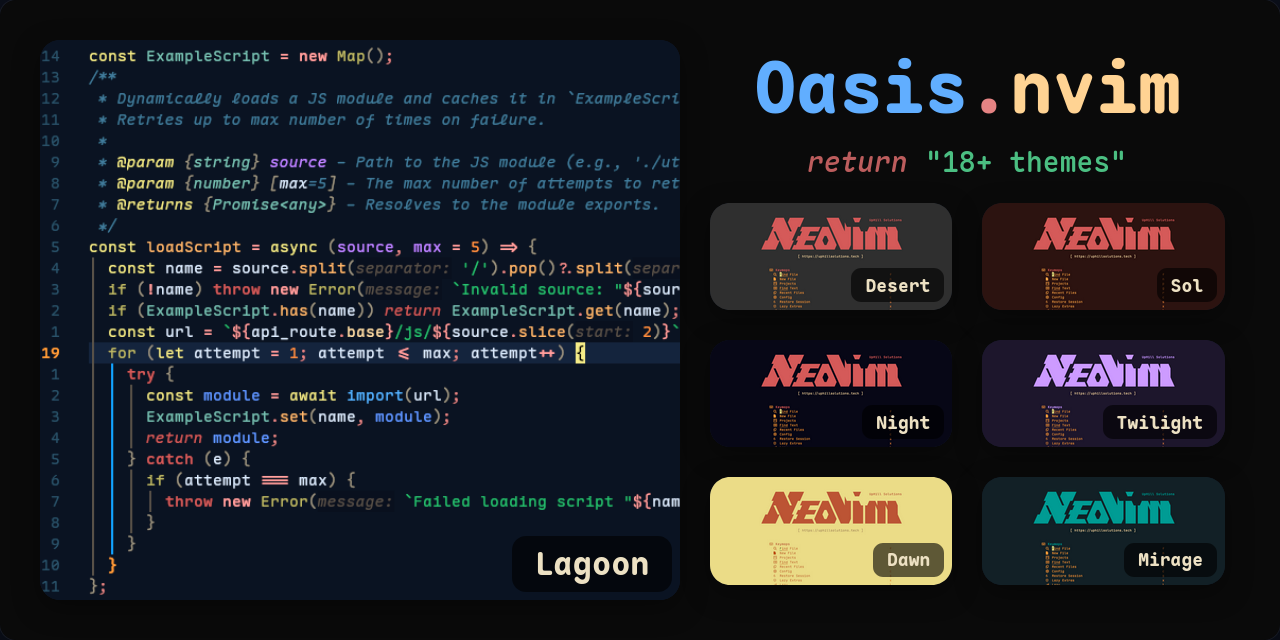
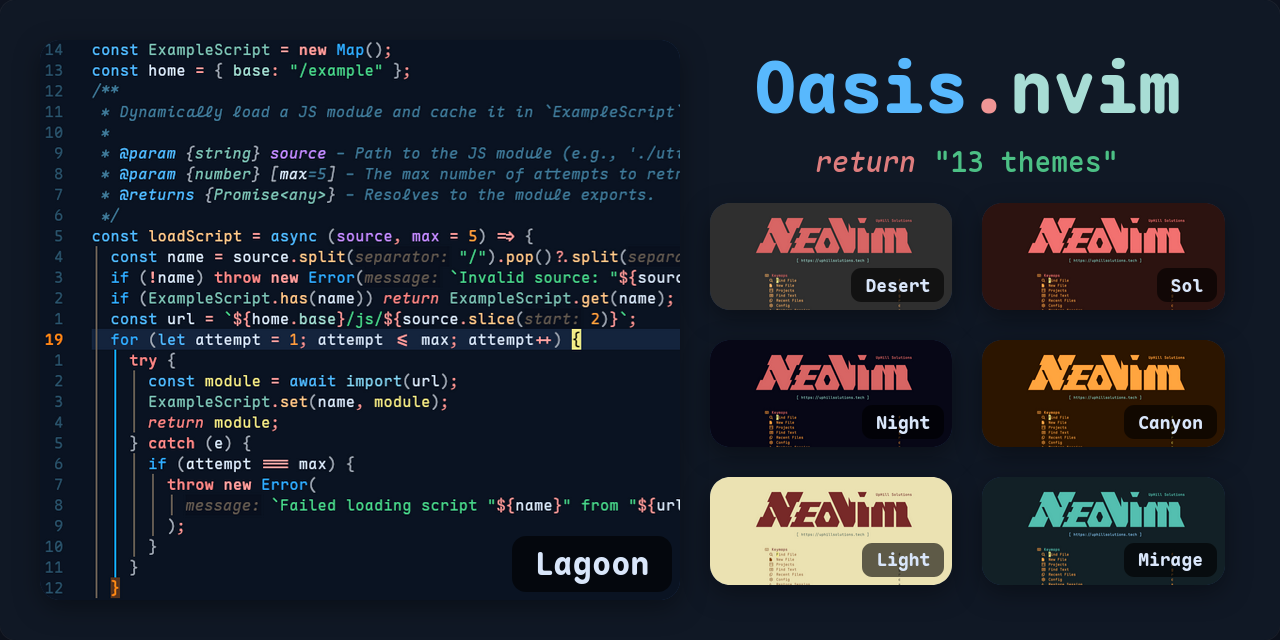
feat: update social preview assets and generation script
This commit introduces a new Lua script, 'assets/socials/generate_social_preview.lua',
to automate the creation of social preview images.

The existing social preview assets have been updated:
- 'assets/socials/Asymmetric Layout Preview.png' modified
- 'assets/socials/README.md' modified
- 'assets/socials/index.html' modified

Several old social preview images have been deleted and replaced with new ones
in 'assets/socials/images/' to reflect the latest design.

diff --git a/assets/socials/README.md b/assets/socials/README.md
@@ -8,11 +8,22 @@ Use the [index.html](./index.html) to create an image for screenshot capture.
 
 Just open it up in a browser and make sure the images in [images](./images/) are up to date.
 
+## Regenerating the HTML
+
+`index.html` is generated from the Oasis palettes. To rebuild it (defaults to lagoon dark):
+
+```bash
+lua assets/socials/generate_social_preview.lua [palette] [mode]
+# e.g. lua assets/socials/generate_social_preview.lua lagoon dark
+```
+
+Drop a matching `./images/<palette>-code.png` if you switch the hero palette.
+
 ## Making an Image for Code
 
 1. Open a screenshot of a code file in `GIMP`
 2. Go to `Crop`, select whole image
-3. Set Size: `990`, `528`
+3. Set Size: `990`, `595`
 4. Set Position: `38`, `120`
 5. Click cropped image to trigger resize
 6. Export as as `png`
@@ -22,7 +33,7 @@ Just open it up in a browser and make sure the images in [images](./images/) are
 1. Open a screenshot of a code file in `GIMP`
 2. Go to `Crop`, select whole image
 3. Set Size: `1070`, `528`
-4. Set Position: `100`, `260`
+4. Set Position: `100`, `200`
 5. Click cropped image to trigger resize
 6. Export as as `png`
 
